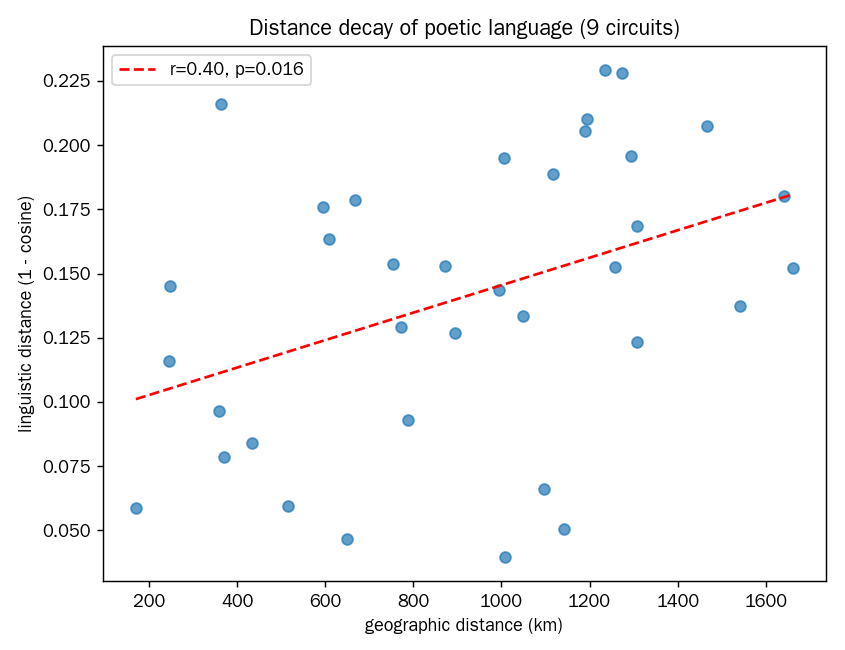
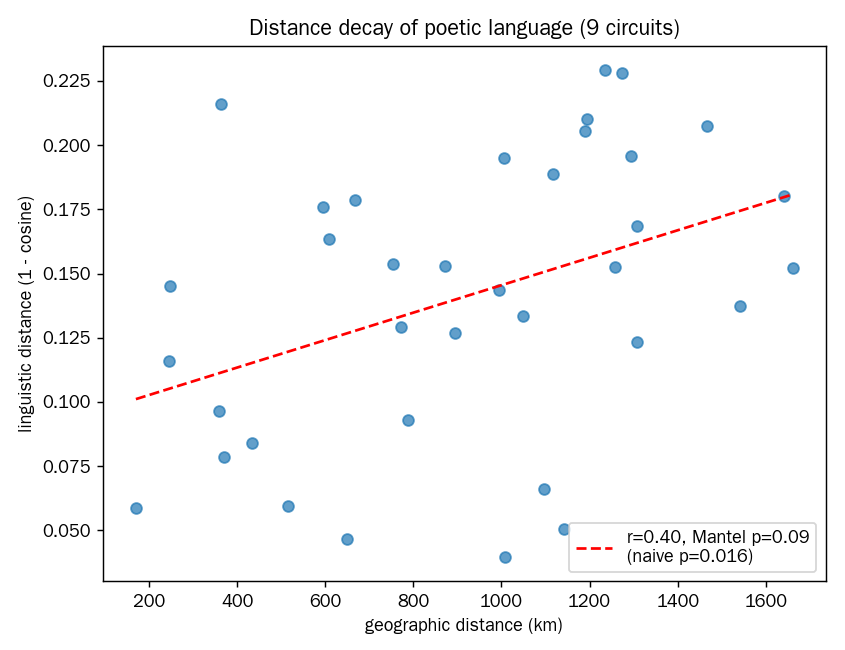
Strengthen distance-decay/periphery stats reporting in figures
- make_figures: add Mantel permutation p (mantel_p) and label fig03 with both
  Mantel p=0.09 and naive Pearson p=0.016 (the latter overstates significance
  by treating the 36 pairwise distances as independent).
- fig11 (periphery): remove the regression line and neutralize the title; the
  recall/distance association is non-significant (p>0.3), non-monotonic, and
  reverses sign when Jiangnan is dropped, so a fitted trend over-stated it.

diff --git a/gender_poem_predictor/make_figures.py b/gender_poem_predictor/make_figures.py
@@ -109,6 +109,18 @@ def haversine(a, b):
     return 2*6371*asin(sqrt(d))
 
 
+def mantel_p(d1, d2, n_perm=10000, seed=42):
+    """Label-permutation p-value for the correlation of two distance matrices
+    (pairwise distances are not independent, so the naive Pearson p is invalid)."""
+    n = d1.shape[0]
+    iu = np.triu_indices(n, 1)
+    r = pearsonr(d1[iu], d2[iu])[0]
+    rng = np.random.RandomState(seed)
+    count = sum(abs(pearsonr(d1[np.ix_(p, p)][iu], d2[iu])[0]) >= abs(r)
+                for p in (rng.permutation(n) for _ in range(n_perm)))
+    return r, (count + 1) / (n_perm + 1)
+
+
 def load_df(min_poems=10):
     df = pd.read_csv(os.path.join(HERE, "dataset.csv"))
     return df[df["n_poems"] >= min_poems].reset_index(drop=True)
@@ -237,12 +249,14 @@ def fig03_distance_decay():
                      for b in regions] for a in regions])
     iu = np.triu_indices(len(regions), 1)
     gx, ly = geo[iu], ling[iu]
-    r, p = pearsonr(gx, ly)
+    r, p_naive = pearsonr(gx, ly)
+    _, p_mantel = mantel_p(geo, ling)
     fig, ax = plt.subplots(figsize=(6.5, 5))
     ax.scatter(gx, ly, alpha=.7)
     z = np.polyfit(gx, ly, 1)
     xs = np.linspace(gx.min(), gx.max(), 50)
-    ax.plot(xs, np.polyval(z, xs), "r--", label=f"r={r:.2f}, p={p:.3f}")
+    ax.plot(xs, np.polyval(z, xs), "r--",
+            label=f"r={r:.2f}, Mantel p={p_mantel:.2f}\n(naive p={p_naive:.3f})")
     ax.set_xlabel(T("地理距離（km）", "geographic distance (km)"))
     ax.set_ylabel(T("語言距離（1 − cosine）", "linguistic distance (1 - cosine)"))
     ax.set_title(T(f"詩歌語言的距離衰減（{len(regions)} 道）",
@@ -437,18 +451,16 @@ def fig11_periphery():
     order = list(le.classes_)
     dist = [haversine(CIRCUIT_COORDS[r], CIRCUIT_COORDS[CAP]) for r in order]
     rr = [rec[i] for i in range(len(order))]
-    r, pval = pearsonr(dist, rr)
+    # No regression line: the association is non-significant (p>0.3) and reverses
+    # sign without Jiangnan, so a fitted trend would over-state a distance effect.
     fig, ax = plt.subplots(figsize=(6.5, 5))
     ax.scatter(dist, rr, s=80, color="purple")
     for r_, d, a in zip(order, dist, rr):
         ax.annotate(R(r_), (d, a), textcoords="offset points", xytext=(6, 4))
-    z = np.polyfit(dist, rr, 1)
-    xs = np.linspace(min(dist), max(dist), 30)
-    ax.plot(xs, np.polyval(z, xs), "r--", label=f"r={r:.2f}, p={pval:.2f}")
     ax.set_xlabel(T("離長安距離（km）", "distance from Chang'an (km)"))
     ax.set_ylabel(T("辨識率（recall）", "identifiability (recall)"))
-    ax.set_title(T("邊陲比中心更易辨識", "Periphery is more identifiable than the center"))
-    ax.legend()
+    ax.set_title(T("各道辨識率 vs. 離首都距離",
+                   "Per-circuit identifiability vs. distance from the capital"))
     save(fig, "fig11_periphery.png")
 
 
